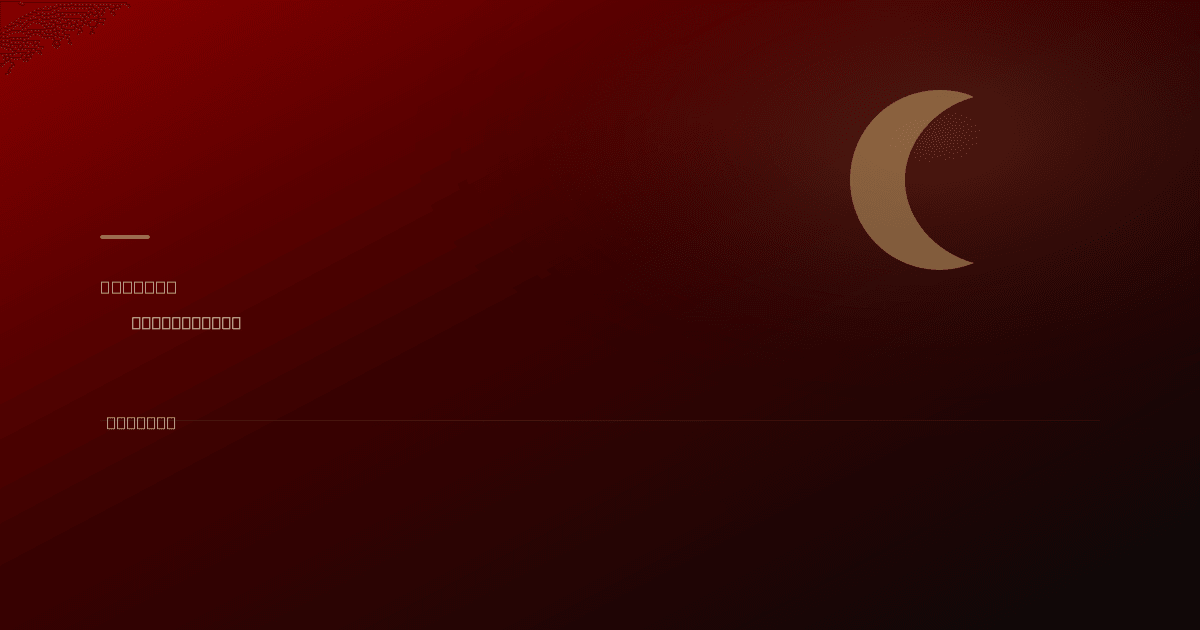
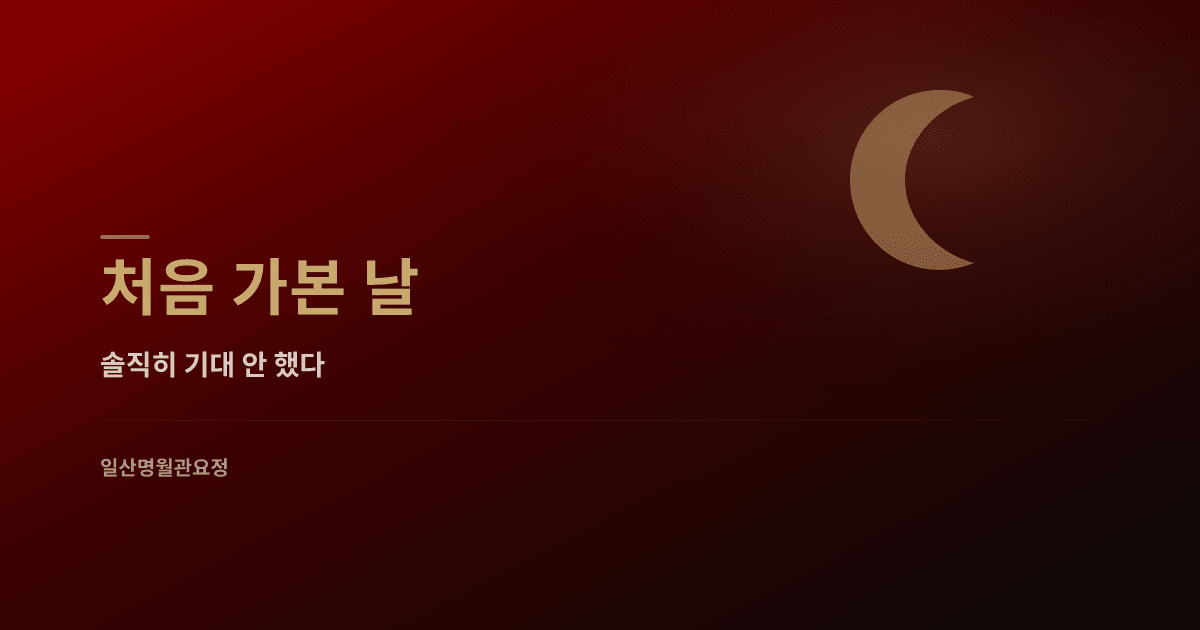
OG 이미지 한글 폰트 렌더링 수정 (Noto Sans KR 시스템 폰트)
- sharp composite 방식으로 변경하여 한글 정상 렌더링
- 10개 OG 이미지 전부 한글 텍스트 확인 완료

diff --git a/scripts/generate-og-images.js b/scripts/generate-og-images.js
@@ -3,64 +3,69 @@ const path = require('path');
 const fs = require('fs');
 
 const W = 1200, H = 630;
-const fontPath = path.join(__dirname, '..', 'fonts', 'NotoSansKR-Bold.ttf');
-const fontData = fs.readFileSync(fontPath).toString('base64');
 
 const pages = [
-  { file: 'og-image.png', title: '일산명월관요정', sub: '문 열고 들어서면, 시간이 멈춘다', accent: '#C9A96E' },
-  { file: 'og-first.png', title: '처음 가본 날', sub: '솔직히 기대 안 했다', accent: '#C9A96E' },
-  { file: 'og-business.png', title: '비즈니스 접대', sub: '거래처 사장님을 모셔야 했다', accent: '#C9A96E' },
-  { file: 'og-food.png', title: '15가지 한정식', sub: '하나하나 먹으면서 메모했다', accent: '#e8c882' },
-  { file: 'og-music.png', title: '국악 라이브', sub: '소름 돋았던 그 순간', accent: '#9b8ec9' },
-  { file: 'og-vip.png', title: 'VIP 접대', sub: '회장님을 모셔야 했다', accent: '#C9A96E' },
-  { file: 'og-compare.png', title: '호텔 vs 한정식', sub: '뭐가 나을까', accent: '#C9A96E' },
-  { file: 'og-seasonal.png', title: '계절별 매력', sub: '같은 곳, 다른 경험', accent: '#8bc98b' },
-  { file: 'og-private.png', title: '프라이빗 공간', sub: '남들 눈치 안 보는 곳', accent: '#7a9ec9' },
-  { file: 'og-after.png', title: '2차 코스 추천', sub: '끝나고 어디 갈까', accent: '#c9a07a' },
+  { file: 'og-image.png', title: '일산명월관요정', sub: '문 열고 들어서면, 시간이 멈춘다', contact: '신실장 010-3695-4929' },
+  { file: 'og-first.png', title: '처음 가본 날', sub: '솔직히 기대 안 했다', contact: '일산명월관요정' },
+  { file: 'og-business.png', title: '비즈니스 접대', sub: '거래처 사장님을 모셔야 했다', contact: '일산명월관요정' },
+  { file: 'og-food.png', title: '15가지 한정식', sub: '하나하나 먹으면서 메모했다', contact: '일산명월관요정' },
+  { file: 'og-music.png', title: '국악 라이브', sub: '소름 돋았던 그 순간', contact: '일산명월관요정' },
+  { file: 'og-vip.png', title: 'VIP 접대', sub: '회장님을 모셔야 했다', contact: '일산명월관요정' },
+  { file: 'og-compare.png', title: '호텔 vs 한정식', sub: '뭐가 나을까', contact: '일산명월관요정' },
+  { file: 'og-seasonal.png', title: '계절별 매력', sub: '같은 곳, 다른 경험', contact: '일산명월관요정' },
+  { file: 'og-private.png', title: '프라이빗 공간', sub: '남들 눈치 안 보는 곳', contact: '일산명월관요정' },
+  { file: 'og-after.png', title: '2차 코스 추천', sub: '끝나고 어디 갈까', contact: '일산명월관요정' },
 ];
 
-function makeSvg(p) {
-  return `<svg width="${W}" height="${H}" xmlns="http://www.w3.org/2000/svg">
-  <defs>
-    <style>
-      @font-face {
-        font-family: 'NotoKR';
-        src: url('data:font/ttf;base64,${fontData}');
-        font-weight: 700;
-      }
-    </style>
-    <linearGradient id="bg" x1="0%" y1="0%" x2="100%" y2="100%">
-      <stop offset="0%" stop-color="#8B0000"/>
-      <stop offset="45%" stop-color="#3a0000"/>
-      <stop offset="100%" stop-color="#0a0a0a"/>
-    </linearGradient>
-    <radialGradient id="glow" cx="78%" cy="22%" r="45%">
-      <stop offset="0%" stop-color="${p.accent}" stop-opacity="0.18"/>
-      <stop offset="100%" stop-color="transparent" stop-opacity="0"/>
-    </radialGradient>
-  </defs>
-  <rect width="${W}" height="${H}" fill="url(#bg)"/>
-  <rect width="${W}" height="${H}" fill="url(#glow)"/>
-  <path d="M940 90c-50 0-90 40-90 90s40 90 90 90c12 0 24-3 34-7C934 252 905 218 905 180s29-72 69-83c-10-5-22-7-34-7z" fill="${p.accent}" opacity="0.5"/>
-  <rect x="100" y="235" width="50" height="4" rx="2" fill="${p.accent}" opacity="0.6"/>
-  <text x="100" y="310" font-family="NotoKR, sans-serif" font-size="62" font-weight="700" fill="${p.accent}" letter-spacing="1">${p.title}</text>
-  <text x="100" y="375" font-family="NotoKR, sans-serif" font-size="28" font-weight="700" fill="#f5f0e8" opacity="0.85">${p.sub}</text>
-  <rect x="100" y="420" width="1000" height="1" fill="#ffffff" opacity="0.08"/>
-  <text x="100" y="475" font-family="NotoKR, sans-serif" font-size="20" font-weight="700" fill="#a89b8c">일산명월관요정</text>
-  <text x="100" y="510" font-family="NotoKR, sans-serif" font-size="18" font-weight="700" fill="#777">신실장 010-3695-4929</text>
-</svg>`;
-}
-
 async function generate(p) {
-  const svg = makeSvg(p);
+  // Create background with gradient using raw pixels
+  const bg = await sharp({
+    create: { width: W, height: H, channels: 4, background: { r: 10, g: 0, b: 0, alpha: 1 } }
+  }).png().toBuffer();
+
+  // Create gradient overlay
+  const gradientSvg = `<svg width="${W}" height="${H}" xmlns="http://www.w3.org/2000/svg">
+    <defs>
+      <linearGradient id="bg" x1="0%" y1="0%" x2="100%" y2="100%">
+        <stop offset="0%" stop-color="#8B0000"/>
+        <stop offset="45%" stop-color="#3a0000"/>
+        <stop offset="100%" stop-color="#0a0a0a"/>
+      </linearGradient>
+      <radialGradient id="glow" cx="78%" cy="22%" r="45%">
+        <stop offset="0%" stop-color="#C9A96E" stop-opacity="0.18"/>
+        <stop offset="100%" stop-color="transparent" stop-opacity="0"/>
+      </radialGradient>
+    </defs>
+    <rect width="${W}" height="${H}" fill="url(#bg)"/>
+    <rect width="${W}" height="${H}" fill="url(#glow)"/>
+    <path d="M940 90c-50 0-90 40-90 90s40 90 90 90c12 0 24-3 34-7C934 252 905 218 905 180s29-72 69-83c-10-5-22-7-34-7z" fill="#C9A96E" opacity="0.5"/>
+    <rect x="100" y="235" width="50" height="4" rx="2" fill="#C9A96E" opacity="0.6"/>
+    <rect x="100" y="420" width="1000" height="1" fill="#ffffff" opacity="0.06"/>
+  </svg>`;
+
+  const bgBuffer = await sharp(Buffer.from(gradientSvg)).png().toBuffer();
+
+  // Create text overlay using Noto Sans KR (referenced as system font)
+  const textSvg = `<svg width="${W}" height="${H}" xmlns="http://www.w3.org/2000/svg">
+    <text x="100" y="310" font-family="Noto Sans KR, NotoSansKR, sans-serif" font-size="62" font-weight="700" fill="#C9A96E" letter-spacing="1">${p.title}</text>
+    <text x="100" y="375" font-family="Noto Sans KR, NotoSansKR, sans-serif" font-size="28" font-weight="700" fill="#f5f0e8" opacity="0.85">${p.sub}</text>
+    <text x="100" y="475" font-family="Noto Sans KR, NotoSansKR, sans-serif" font-size="20" font-weight="700" fill="#a89b8c">${p.contact}</text>
+  </svg>`;
+
+  const textBuffer = await sharp(Buffer.from(textSvg)).png().toBuffer();
+
   const out = path.join(__dirname, '..', p.file);
-  await sharp(Buffer.from(svg)).png({ quality: 90, compressionLevel: 8 }).toFile(out);
+  await sharp(bgBuffer)
+    .composite([{ input: textBuffer, top: 0, left: 0 }])
+    .png({ quality: 90, compressionLevel: 8 })
+    .toFile(out);
+
   const stat = fs.statSync(out);
-  console.log('✓', p.file, `(${Math.round(stat.size/1024)}KB)`);
+  console.log('✓', p.file, `(${Math.round(stat.size / 1024)}KB)`);
 }
 
 (async () => {
-  console.log('Generating with Noto Sans KR...');
+  console.log('Generating OG images...');
   for (const p of pages) await generate(p);
   console.log(`Done: ${pages.length} images`);
 })();
